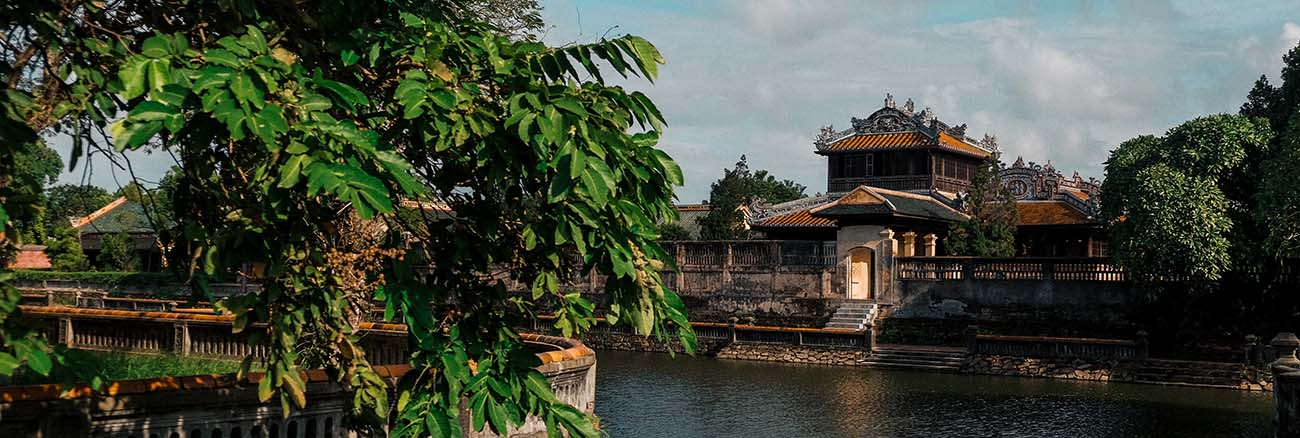
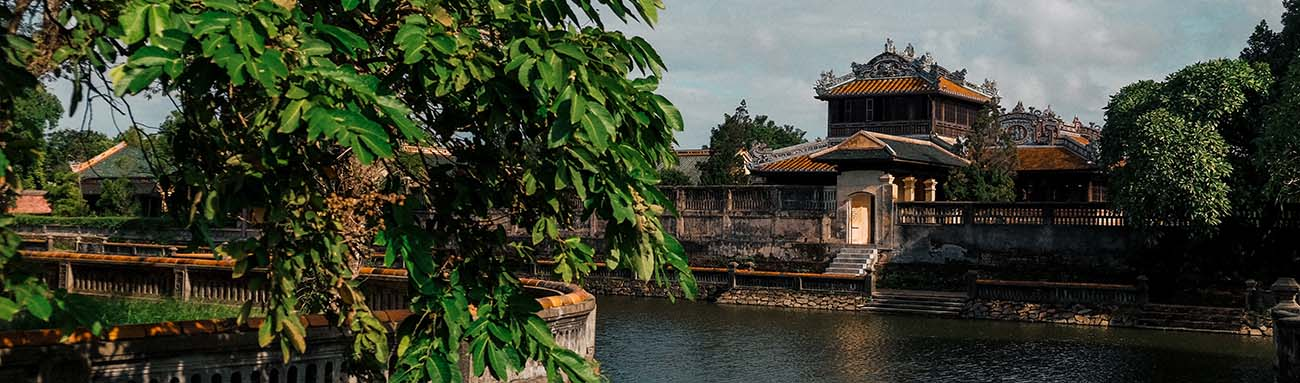
added img

diff --git a/_atoms.scss b/_atoms.scss
@@ -7,9 +7,10 @@ html {
 }
 
 header {
-    background-image: url("https://allgiff.github.io/CSSZenGarden/images/header-background.jpg");
+    background-image: url("https://allgiff.github.io/CSSZenGarden/images/head-back-2.jpg");
     background-repeat: no-repeat;
     background-size: 1300px 300px;
+    opacity: 10;
 }
 
 body {

diff --git a/_atoms.css b/_atoms.css
@@ -16,9 +16,10 @@ html {
 }
 
 header {
-  background-image: url("https://allgiff.github.io/CSSZenGarden/images/header-background.jpg");
+  background-image: url("https://allgiff.github.io/CSSZenGarden/images/head-back-2.jpg");
   background-repeat: no-repeat;
   background-size: 1300px 300px;
+  opacity: 10;
 }
 
 body {

diff --git a/index.css b/index.css
@@ -16,9 +16,10 @@ html {
 }
 
 header {
-  background-image: url("https://allgiff.github.io/CSSZenGarden/images/header-background.jpg");
+  background-image: url("https://allgiff.github.io/CSSZenGarden/images/head-back-2.jpg");
   background-repeat: no-repeat;
   background-size: 1300px 300px;
+  opacity: 10;
 }
 
 body {
